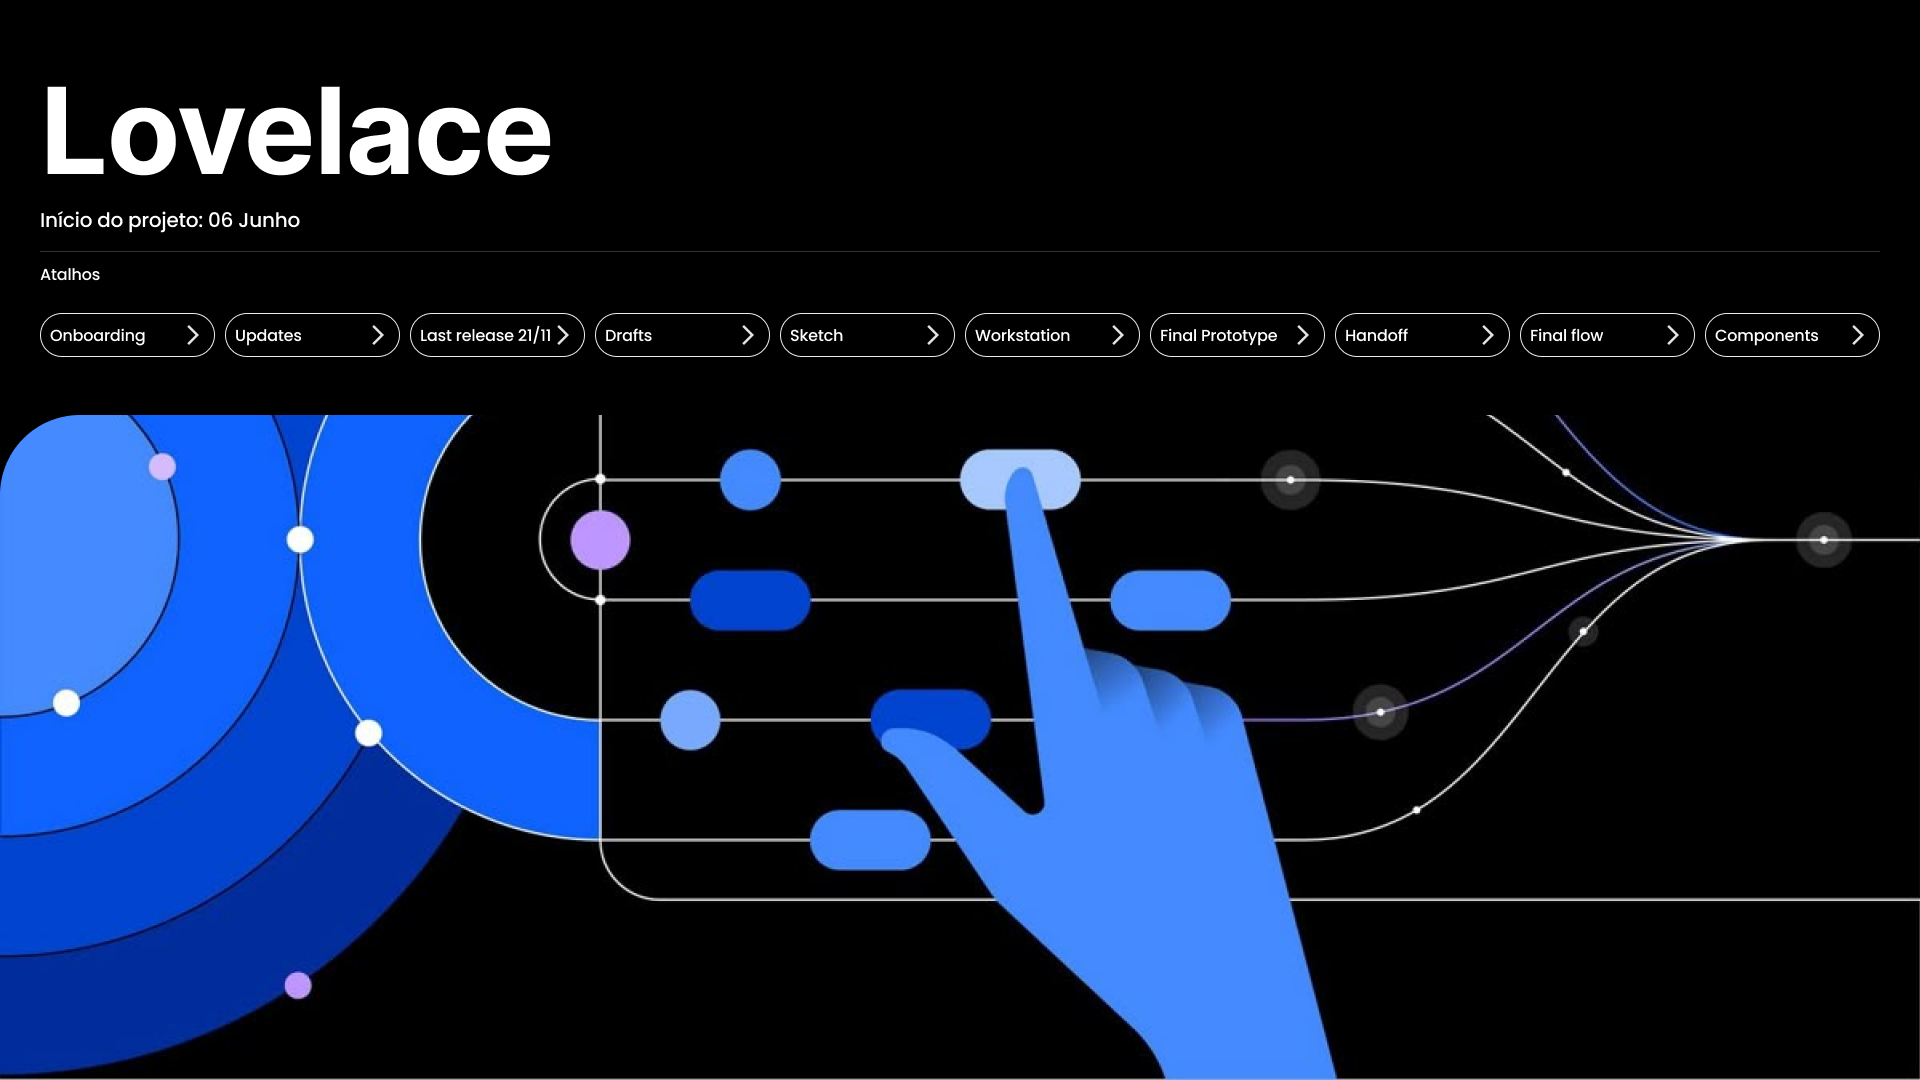
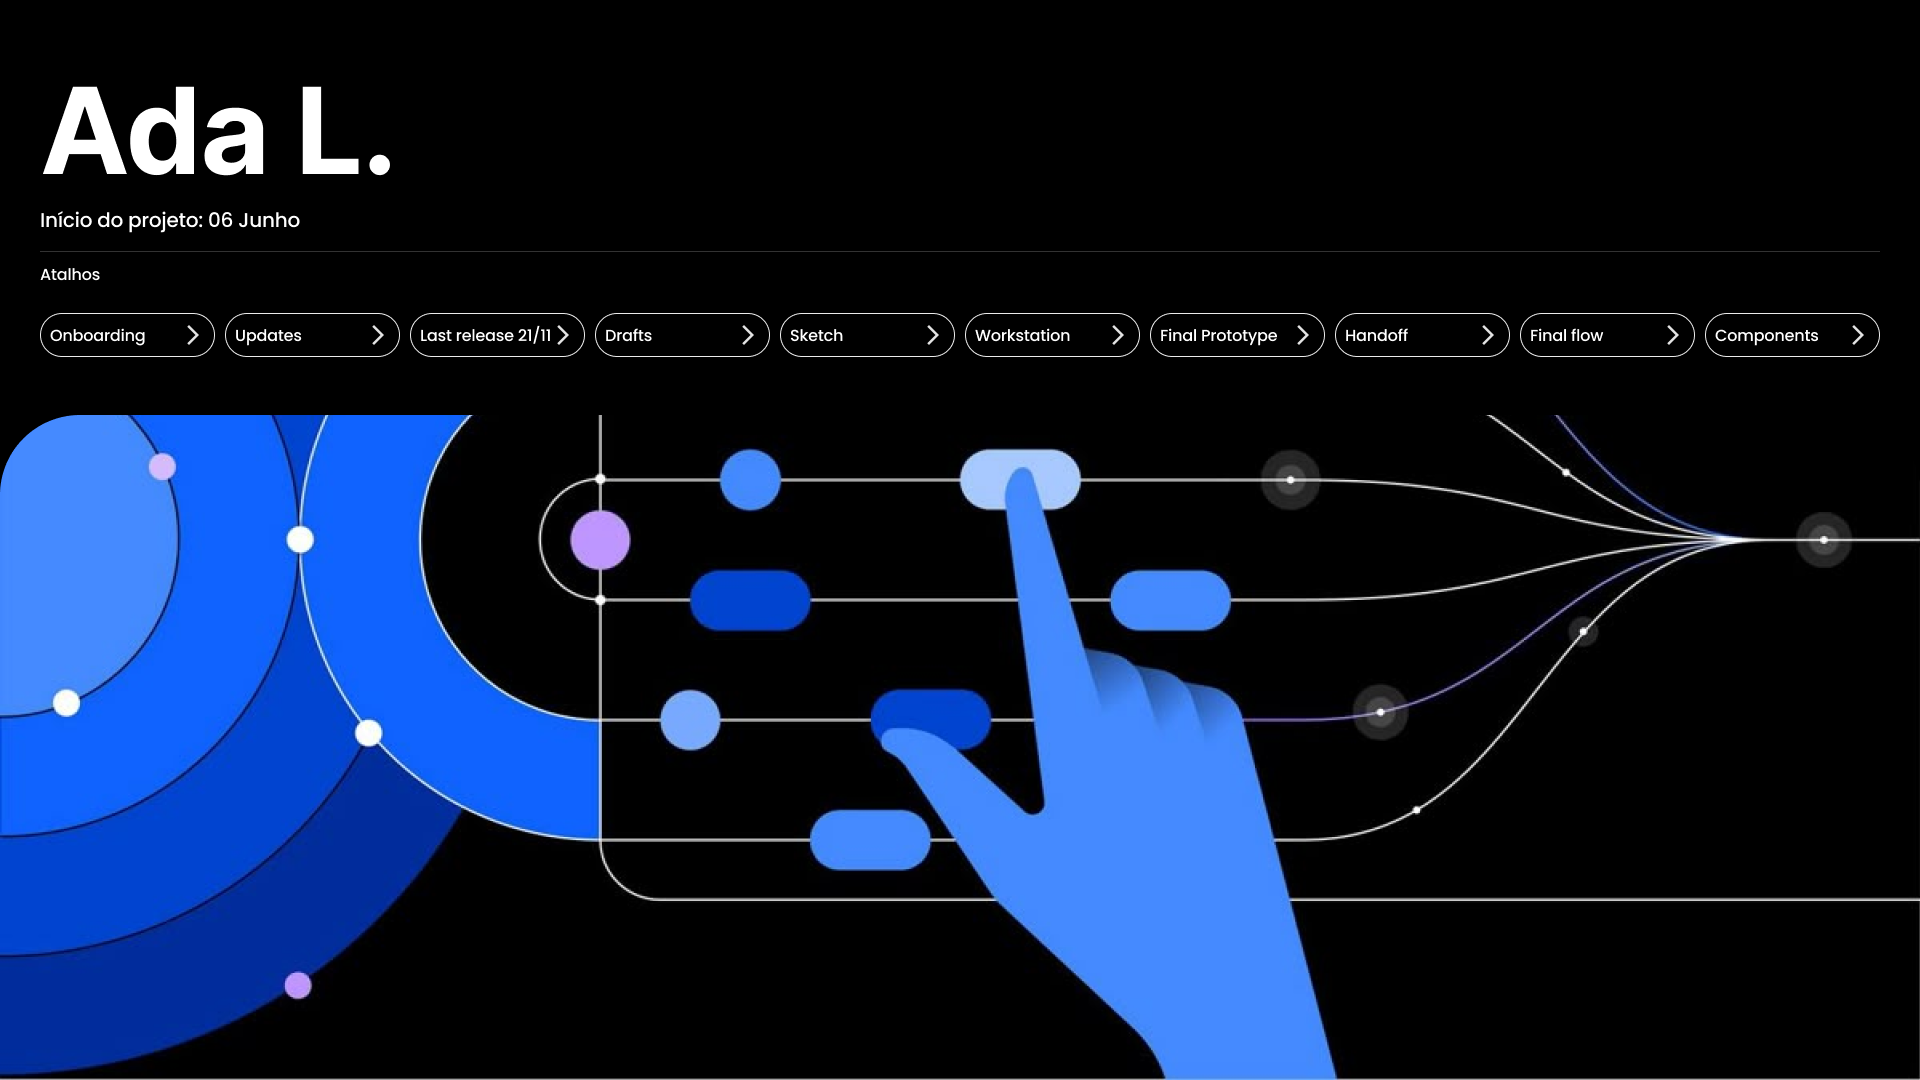
correção, thumbnail

Changed region(s): [[0.0, 0.0611, 0.3125, 0.1833]]

diff --git a/handoff.html b/handoff.html
@@ -10,7 +10,7 @@
     <meta property="og:description" content="Ux designer com alguns anos de experiência">
     <meta property="og:image" content="https://srrodrigues.com/img/cursor.jpg">
 
-    <title>Lovelace Handoff — Felipe Rodrigues UX | UI Designer</title>
+    <title>Ada L. Handoff — Felipe Rodrigues UX | UI Designer</title>
     <link rel="icon" type="image/x-icon" href="/img/favicon-32x32.png">
 
     <!-- Styles -->
@@ -91,7 +91,7 @@
     <main class="main_handoff">
         <div class="sticky_column_right">
             <div class="column_one_fixed">
-                <h2>Lovelace Handoff</h2>
+                <h2>Ada L. Handoff</h2>
                 <div class="introduce_resume">
                     <p class="client_reveal">Cliente: Não revelado</p>
                     <p class="my_position">Atuação: foco em traduzir decisões técnicas em fluxos e protótipos
@@ -103,7 +103,7 @@
 
             <div class="column_two">
                 <span class="introduce_project_text">
-                    Lovelace é uma ferramenta de sugestão de tecnologias que orienta o usuário até a opção mais adequada
+                    Ada L. é uma ferramenta de sugestão de tecnologias que orienta o usuário até a opção mais adequada
                     a
                     partir de um conjunto de perguntas estruturadas. Ao final do fluxo, o sistema entrega um resultado
                     previsível e previamente definido, reduzindo a incerteza na escolha de ferramentas técnicas.
@@ -476,7 +476,7 @@
                     <div class="questions">
                         <div class="content_questions">
                             <div class="wrapper_heading_question">
-                                <span class="title_question">Bem-vindo à <i>Lovelace</i></span>
+                                <span class="title_question">Bem-vindo à <i>Ada L.</i></span>
                             </div>
                             <!-- button radio -->
                             <div class="onboarding">

diff --git a/index.html b/index.html
@@ -75,7 +75,7 @@
 				<article class="project-card" data-project>
 					<div class="content_project">
 						<div class="heading_project">
-							<span class="project-card_title">Handoff — Lovelace</span>
+							<span class="project-card_title">Handoff — Ada L.</span>
 							<p class="wave_effect">
 								Desenvolvi uma estrutura de comunicação baseada em tokens semânticos e diagramas,
 								promovendo alinhamento entre times e crescimento sustentável do sistema.

diff --git a/css/query.css b/css/query.css
@@ -18,7 +18,8 @@
         font-size: 1.6rem;
     }
 
-    .prototype_project_love {
+    .prototype_project_love,
+    .content_final_result {
         display: none;
     }
 
@@ -318,6 +319,10 @@
     }
 
     /* handoff project */
+
+    .content_final_result{
+        display: block;
+    }
 
     .holder_scroll {
         left: 100%;

diff --git a/css/prototype.css b/css/prototype.css
@@ -75,6 +75,7 @@
         padding: 20px;
         background-color: #ffffff;
         padding: 0;
+        margin-top: 32px;
     }
 
     .screen_main {
